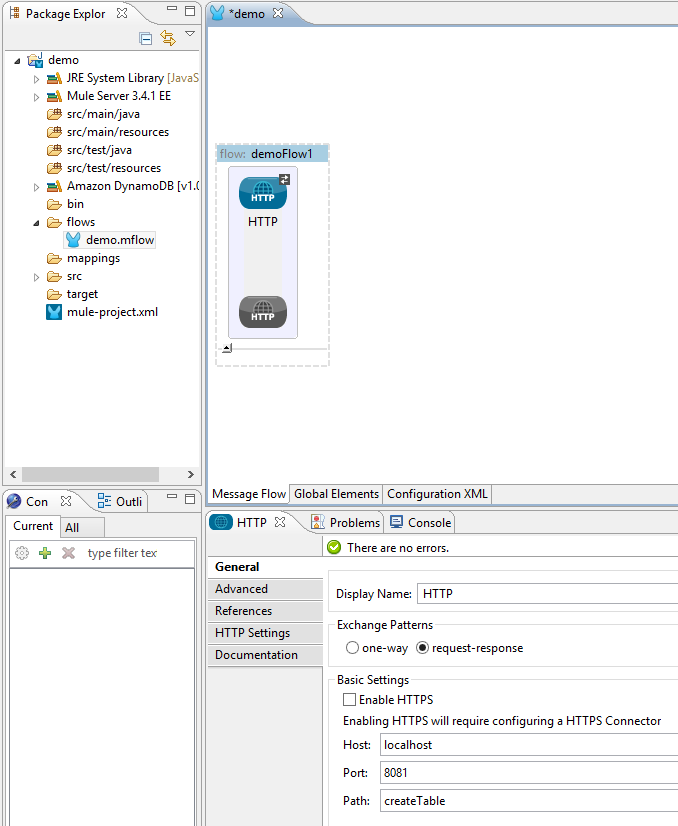
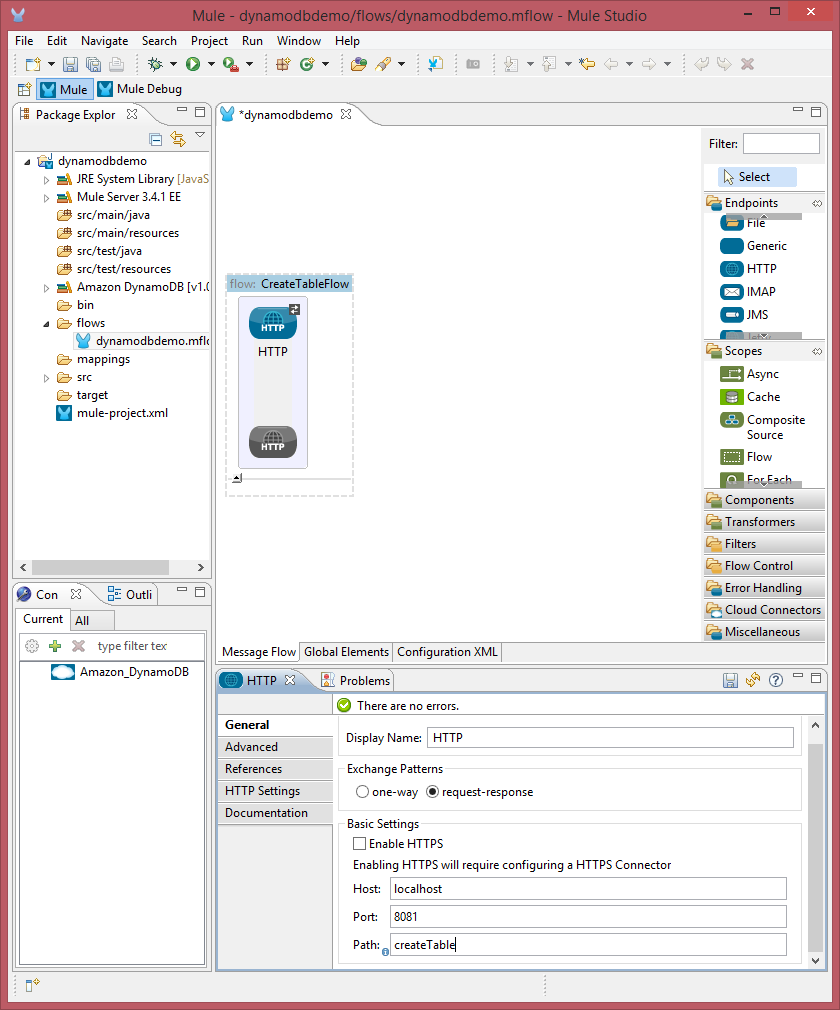
Updated documentation with new steps and images for steps 1 thru 3

Changed region(s): [[0.0, 0.0, 1.0, 1.0]]

diff --git a/doc/sample.md b/doc/sample.md
@@ -42,7 +42,7 @@ In order to build and run this project you'll need:
 
 * [MuleStudio](http://www.mulesoft.org/download-mule-esb-community-edition)
 
-* (optional) [Intelli-J IDEA](http://www.jetbrains.com/idea/download/) or [Eclipse](http://www.eclipse.org/downloads/)
+* TBD: NOT NEEDED for this documentation?? - (optional) [Intelli-J IDEA](http://www.jetbrains.com/idea/download/) or [Eclipse](http://www.eclipse.org/downloads/)
 
 
 
@@ -84,7 +84,7 @@ In order to build and run this project you'll need:
 
 *    Run Mule Studio and select **File \> New \> Mule Project** menu item.
 
-*    Type **Demo** as a project name and click **Finish**.
+*    Type **DynamoDBDemo** as a project name and click **Finish**.
 
 ![Create a new Demo project](images/Step2-1.png)
 
@@ -92,7 +92,7 @@ In order to build and run this project you'll need:
 
 ![Create a new Demo project](images/Step2-2.png)
 
-*   Click on Create button
+*   Click the Create button
 *   In the "Filter" field, type **Amazon** to search for the connector, then under "Cloud Connectors" select **Amazon DynamoDB**.
 *   Click OK
 
@@ -100,31 +100,50 @@ In order to build and run this project you'll need:
 
 *   In the **Global Element Properties** windows, enter your access and secret keys
 *   Enter "US_WEST_1" as your region
-*   Select **Test Connection...** to confirm that your configuration works
-*   Select **OK**
+*   Select **Test Connection...** to confirm that your configuration works before continuing.  If there is a problem, double-check the keys you entered.
+
+Your screen should look like this:
 
 ![Create a new Demo project](images/Step2-4.png)
+
+*   Select **OK**
+*   Save your project using the **File \> Save All** menu item.
 
 
 ### Step 3: Create a Table
 
+Now we're going to create some Mule work flows that demonstrate some of the DyanamoDB Connector features.  We will use the
+HTTP endpoint to invoke our flows.  If you wish you can use a different endpoint, though they are not covered in this
+tutorial.
+
 *   Select the **Message Flow** tab
-*   Drag and drop an HTTP endpoint in to the flow
-*   In the path filed, type in **createTable**
+*   From the Palette tool bar on the right side of the screen, under the "Endpoints" section, drag and drop an **HTTP** endpoint in to the flow
+*   Rename the flow from "dynamodbdemoFlow1" to "CreateTableFlow" by right-clicking on the text and selecting **Rename**
+*   Select the HTTP endpoint to display its property window at the bottom of the screen
+*   In the path field, type in **createTable**
+
+Your screen should should look like this:
 
 ![Create a table](images/Step3-1.png)
 
-*   Drag and drop an **Amazon DynamoDB** endpoint in to the flow
-*   Edit the **Amazon DynamoDB** endpoint and
-**  In the **Config Reference**, select "Amazon_DynamoDB"
-**  For the **Table Name**, type "MyTestTable"
-**  Enter '1' for the Read and Write Capacity Units
-**  Type 'num' for the Primary Key Name
-**  Enter '10' for the Wait For value
+*   From the Palette tool bar, under the "Cloud Connectors" section, drag and drop an **Amazon DynamoDB** endpoint in to the flow
+*   Select the **Amazon DynamoDB** endpoint and change the following properties:
+    *   In the **Config Reference**, select "Amazon_DynamoDB"
+    *   For the **Table Name**, type "MyTestTable"
+    *   Enter '1' for the Read and Write Capacity Units
+    *   Type 'num' for the Primary Key Name
+    *   Enter '10' for the Wait For value
 
 Your **Amazon DynamoDB** endpoint should look like this:
 
-![Create a table](images/Step3-1.png)
+![Create a table](images/Step3-2.png)
+
+*   To test your flow:
+    *   Select your flow to highlight it
+    *   From the **Run** menu, select **Run As** then **Mule Application**
+    *   Launch your web browser and navigate to "http://localhost:8081/createTable"
+
+![Create a table](images/Step3-3.png)
 
 ### Step 4: Save a Document
 
